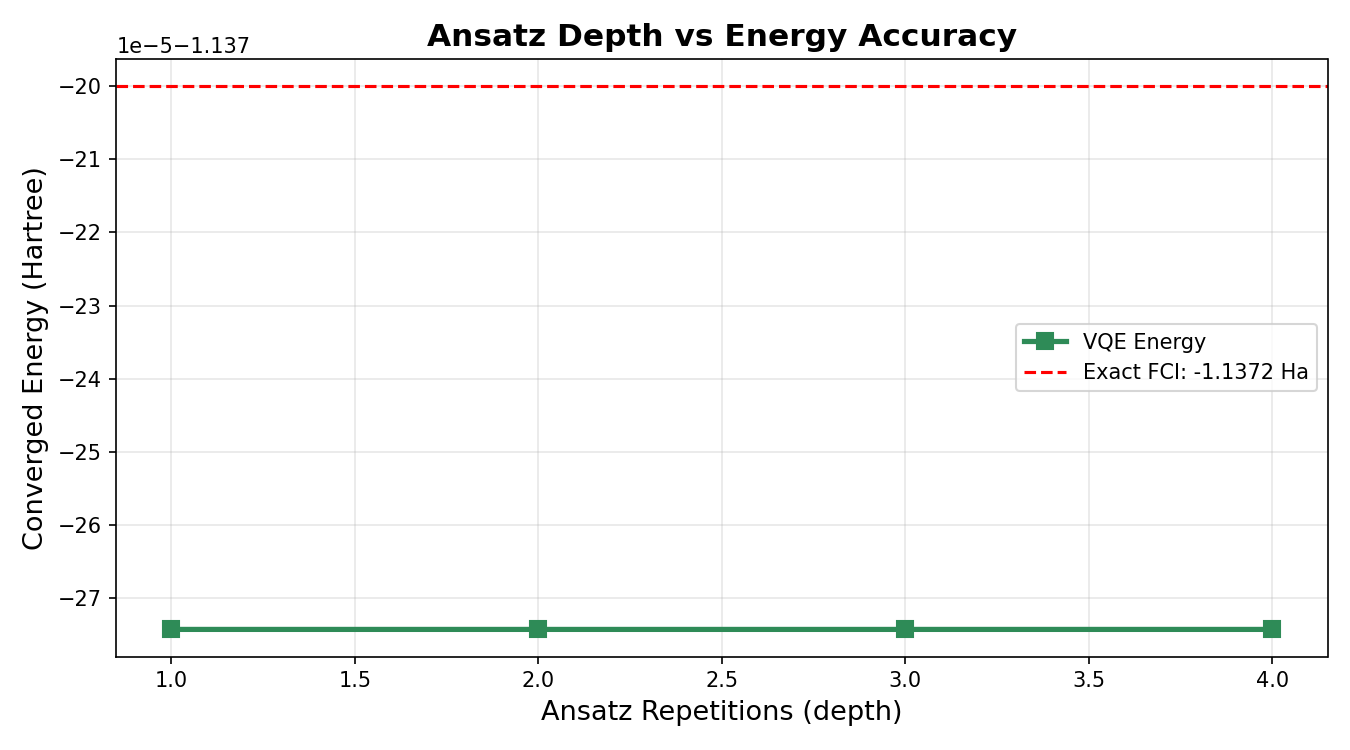
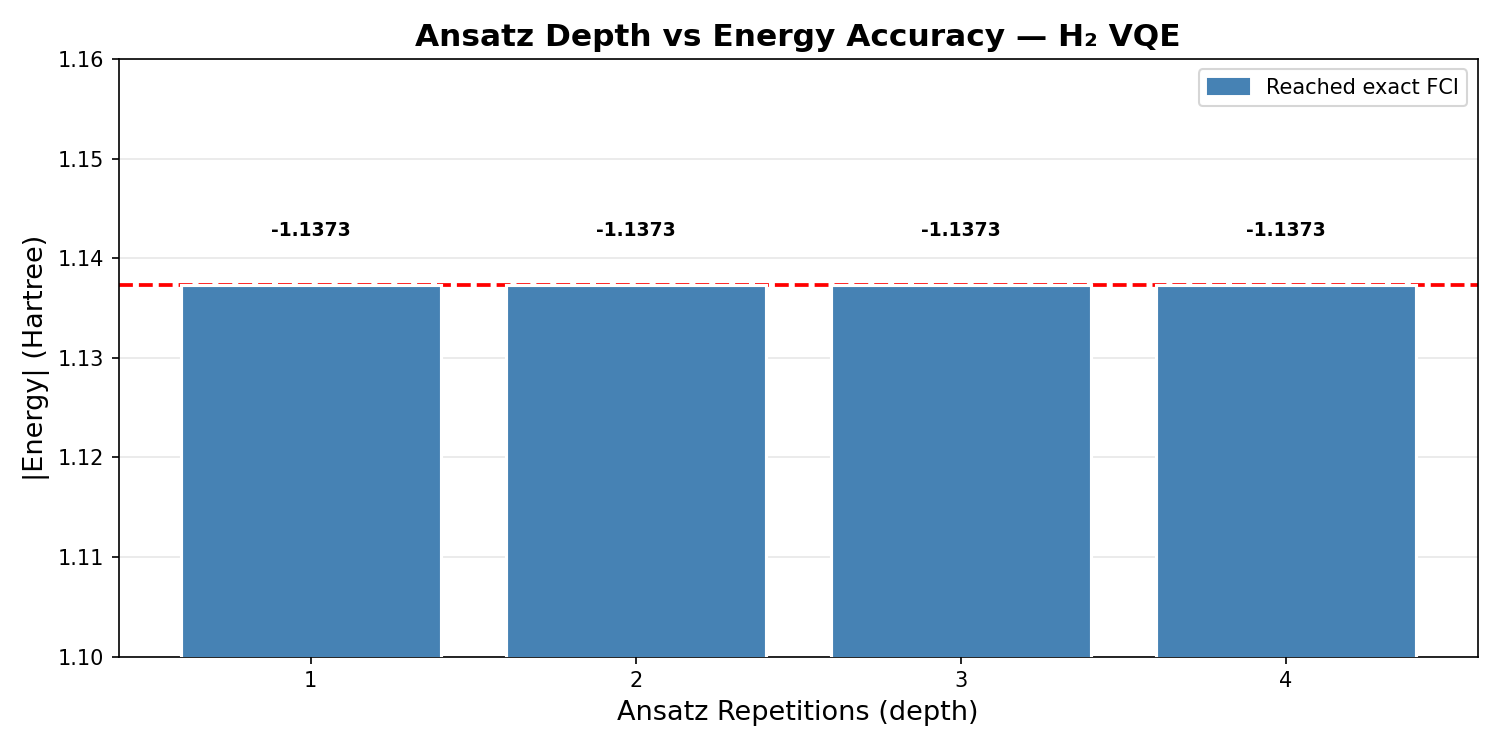
day4: publication quality plots and interpreted results

diff --git a/src/utils.py b/src/utils.py
@@ -1,21 +1,35 @@
 # src/utils.py
-# Helpers for plotting and saving results
-
 import matplotlib.pyplot as plt
+import matplotlib.patches as mpatches
 import pandas as pd
 import numpy as np
 import os
 
 
 def plot_convergence(energy_history, optimal_energy, save_path):
-    """Plots VQE convergence — energy vs iteration."""
-    fig, ax = plt.subplots(figsize=(9, 5))
+    """Publication quality VQE convergence plot."""
+    fig, ax = plt.subplots(figsize=(10, 5))
 
-    ax.plot(energy_history, color='steelblue', linewidth=2, label='VQE Energy')
+    iterations = list(range(len(energy_history)))
+
+    ax.plot(iterations, energy_history, color='steelblue',
+            linewidth=2, label='VQE Energy', zorder=3)
     ax.axhline(y=optimal_energy, color='red', linestyle='--',
-               linewidth=1.5, label=f'Converged: {optimal_energy:.4f} Ha')
-    ax.axhline(y=-1.1372, color='green', linestyle=':',
-               linewidth=1.5, label='Exact FCI: -1.1372 Ha')
+               linewidth=1.8, label=f'Converged: {optimal_energy:.4f} Ha', zorder=2)
+    ax.axhline(y=-1.137274, color='green', linestyle=':',
+               linewidth=1.8, label='Exact FCI: -1.1372 Ha', zorder=2)
+
+    # Shade convergence zone
+    ax.axhspan(optimal_energy - 0.001, optimal_energy + 0.001,
+               alpha=0.15, color='red')
+
+    # Annotate convergence point
+    conv_iter = next(i for i, e in enumerate(energy_history) if abs(e - optimal_energy) < 0.001)
+    ax.annotate(f'Converged at\niteration {conv_iter}',
+                xy=(conv_iter, optimal_energy),
+                xytext=(conv_iter + 10, optimal_energy + 0.04),
+                fontsize=9, color='red',
+                arrowprops=dict(arrowstyle='->', color='red', lw=1.2))
 
     ax.set_xlabel('Iteration', fontsize=13)
     ax.set_ylabel('Energy (Hartree)', fontsize=13)
@@ -30,25 +44,32 @@ def plot_convergence(energy_history, optimal_energy, save_path):
 
 
 def plot_energy_landscape(bond_lengths, energies, save_path):
-    """Plots energy vs bond length — the potential energy surface."""
-    fig, ax = plt.subplots(figsize=(9, 5))
+    """Publication quality potential energy surface plot."""
+    fig, ax = plt.subplots(figsize=(10, 5))
 
     ax.plot(bond_lengths, energies, marker='o', color='darkorange',
-            linewidth=2.5, markersize=7, label='VQE Energy')
-    ax.axvline(x=0.735, color='gray', linestyle='--',
-               alpha=0.7, label='Equilibrium (0.735 Å)')
+            linewidth=2.5, markersize=8, label='VQE Energy', zorder=3)
 
+    # Mark minimum
     min_idx = np.argmin(energies)
-    ax.annotate(f'Min: {energies[min_idx]:.4f} Ha',
+    ax.axvline(x=0.735, color='gray', linestyle='--',
+               alpha=0.7, linewidth=1.5, label='Experimental equilibrium (0.735 Å)')
+    ax.scatter([bond_lengths[min_idx]], [energies[min_idx]],
+               color='red', s=120, zorder=5, label=f'VQE minimum: {energies[min_idx]:.4f} Ha')
+    ax.annotate(f'  Min: {energies[min_idx]:.4f} Ha\n  at {bond_lengths[min_idx]:.2f} Å',
                 xy=(bond_lengths[min_idx], energies[min_idx]),
-                xytext=(bond_lengths[min_idx] + 0.2, energies[min_idx] + 0.05),
+                xytext=(bond_lengths[min_idx] + 0.3, energies[min_idx] + 0.15),
                 fontsize=9, color='red',
-                arrowprops=dict(arrowstyle='->', color='red'))
+                arrowprops=dict(arrowstyle='->', color='red', lw=1.2))
 
-    ax.set_xlabel('Bond Length (Å)', fontsize=13)
+    # Shade repulsion and dissociation zones
+    ax.axvspan(0.3, 0.6, alpha=0.08, color='red', label='Repulsion zone')
+    ax.axvspan(1.8, 2.5, alpha=0.08, color='blue', label='Dissociation zone')
+
+    ax.set_xlabel('H-H Bond Length (Å)', fontsize=13)
     ax.set_ylabel('Ground State Energy (Hartree)', fontsize=13)
-    ax.set_title('H₂ Potential Energy Surface — VQE', fontsize=15, fontweight='bold')
-    ax.legend(fontsize=10)
+    ax.set_title('H₂ Potential Energy Surface — VQE Simulation', fontsize=15, fontweight='bold')
+    ax.legend(fontsize=9)
     ax.grid(True, alpha=0.3)
     plt.tight_layout()
     os.makedirs(os.path.dirname(save_path), exist_ok=True)
@@ -58,19 +79,31 @@ def plot_energy_landscape(bond_lengths, energies, save_path):
 
 
 def plot_reps_vs_energy(reps_list, energies, save_path):
-    """Plots ansatz depth (reps) vs converged energy."""
-    fig, ax = plt.subplots(figsize=(9, 5))
+    """Publication quality ansatz depth vs energy plot."""
+    fig, ax = plt.subplots(figsize=(10, 5))
 
-    ax.plot(reps_list, energies, marker='s', color='seagreen',
-            linewidth=2.5, markersize=8, label='VQE Energy')
-    ax.axhline(y=-1.1372, color='red', linestyle='--',
-               linewidth=1.5, label='Exact FCI: -1.1372 Ha')
+    colors = ['steelblue' if abs(e - (-1.137274)) < 0.001 else 'darkorange' for e in energies]
+
+    bars = ax.bar(reps_list, [abs(e) for e in energies],
+                  color=colors, edgecolor='white', linewidth=1.5, zorder=3)
+
+    ax.axhline(y=1.137274, color='red', linestyle='--',
+               linewidth=1.8, label='Exact FCI: -1.1372 Ha', zorder=2)
+
+    # Annotate each bar
+    for i, (rep, energy) in enumerate(zip(reps_list, energies)):
+        ax.text(rep, abs(energy) + 0.005, f'{energy:.4f}',
+                ha='center', fontsize=9, fontweight='bold')
+
+    exact_patch = mpatches.Patch(color='steelblue', label='Reached exact FCI')
+    ax.legend(handles=[exact_patch], fontsize=10)
 
     ax.set_xlabel('Ansatz Repetitions (depth)', fontsize=13)
-    ax.set_ylabel('Converged Energy (Hartree)', fontsize=13)
-    ax.set_title('Ansatz Depth vs Energy Accuracy', fontsize=15, fontweight='bold')
-    ax.legend(fontsize=10)
-    ax.grid(True, alpha=0.3)
+    ax.set_ylabel('|Energy| (Hartree)', fontsize=13)
+    ax.set_title('Ansatz Depth vs Energy Accuracy — H₂ VQE', fontsize=15, fontweight='bold')
+    ax.set_xticks(reps_list)
+    ax.set_ylim(1.10, 1.16)
+    ax.grid(True, alpha=0.3, axis='y')
     plt.tight_layout()
     os.makedirs(os.path.dirname(save_path), exist_ok=True)
     plt.savefig(save_path, dpi=150)
@@ -79,7 +112,6 @@ def plot_reps_vs_energy(reps_list, energies, save_path):
 
 
 def save_results(data_dict, filepath):
-    """Saves results to CSV."""
     df = pd.DataFrame(data_dict)
     os.makedirs(os.path.dirname(filepath), exist_ok=True)
     df.to_csv(filepath, index=False)
